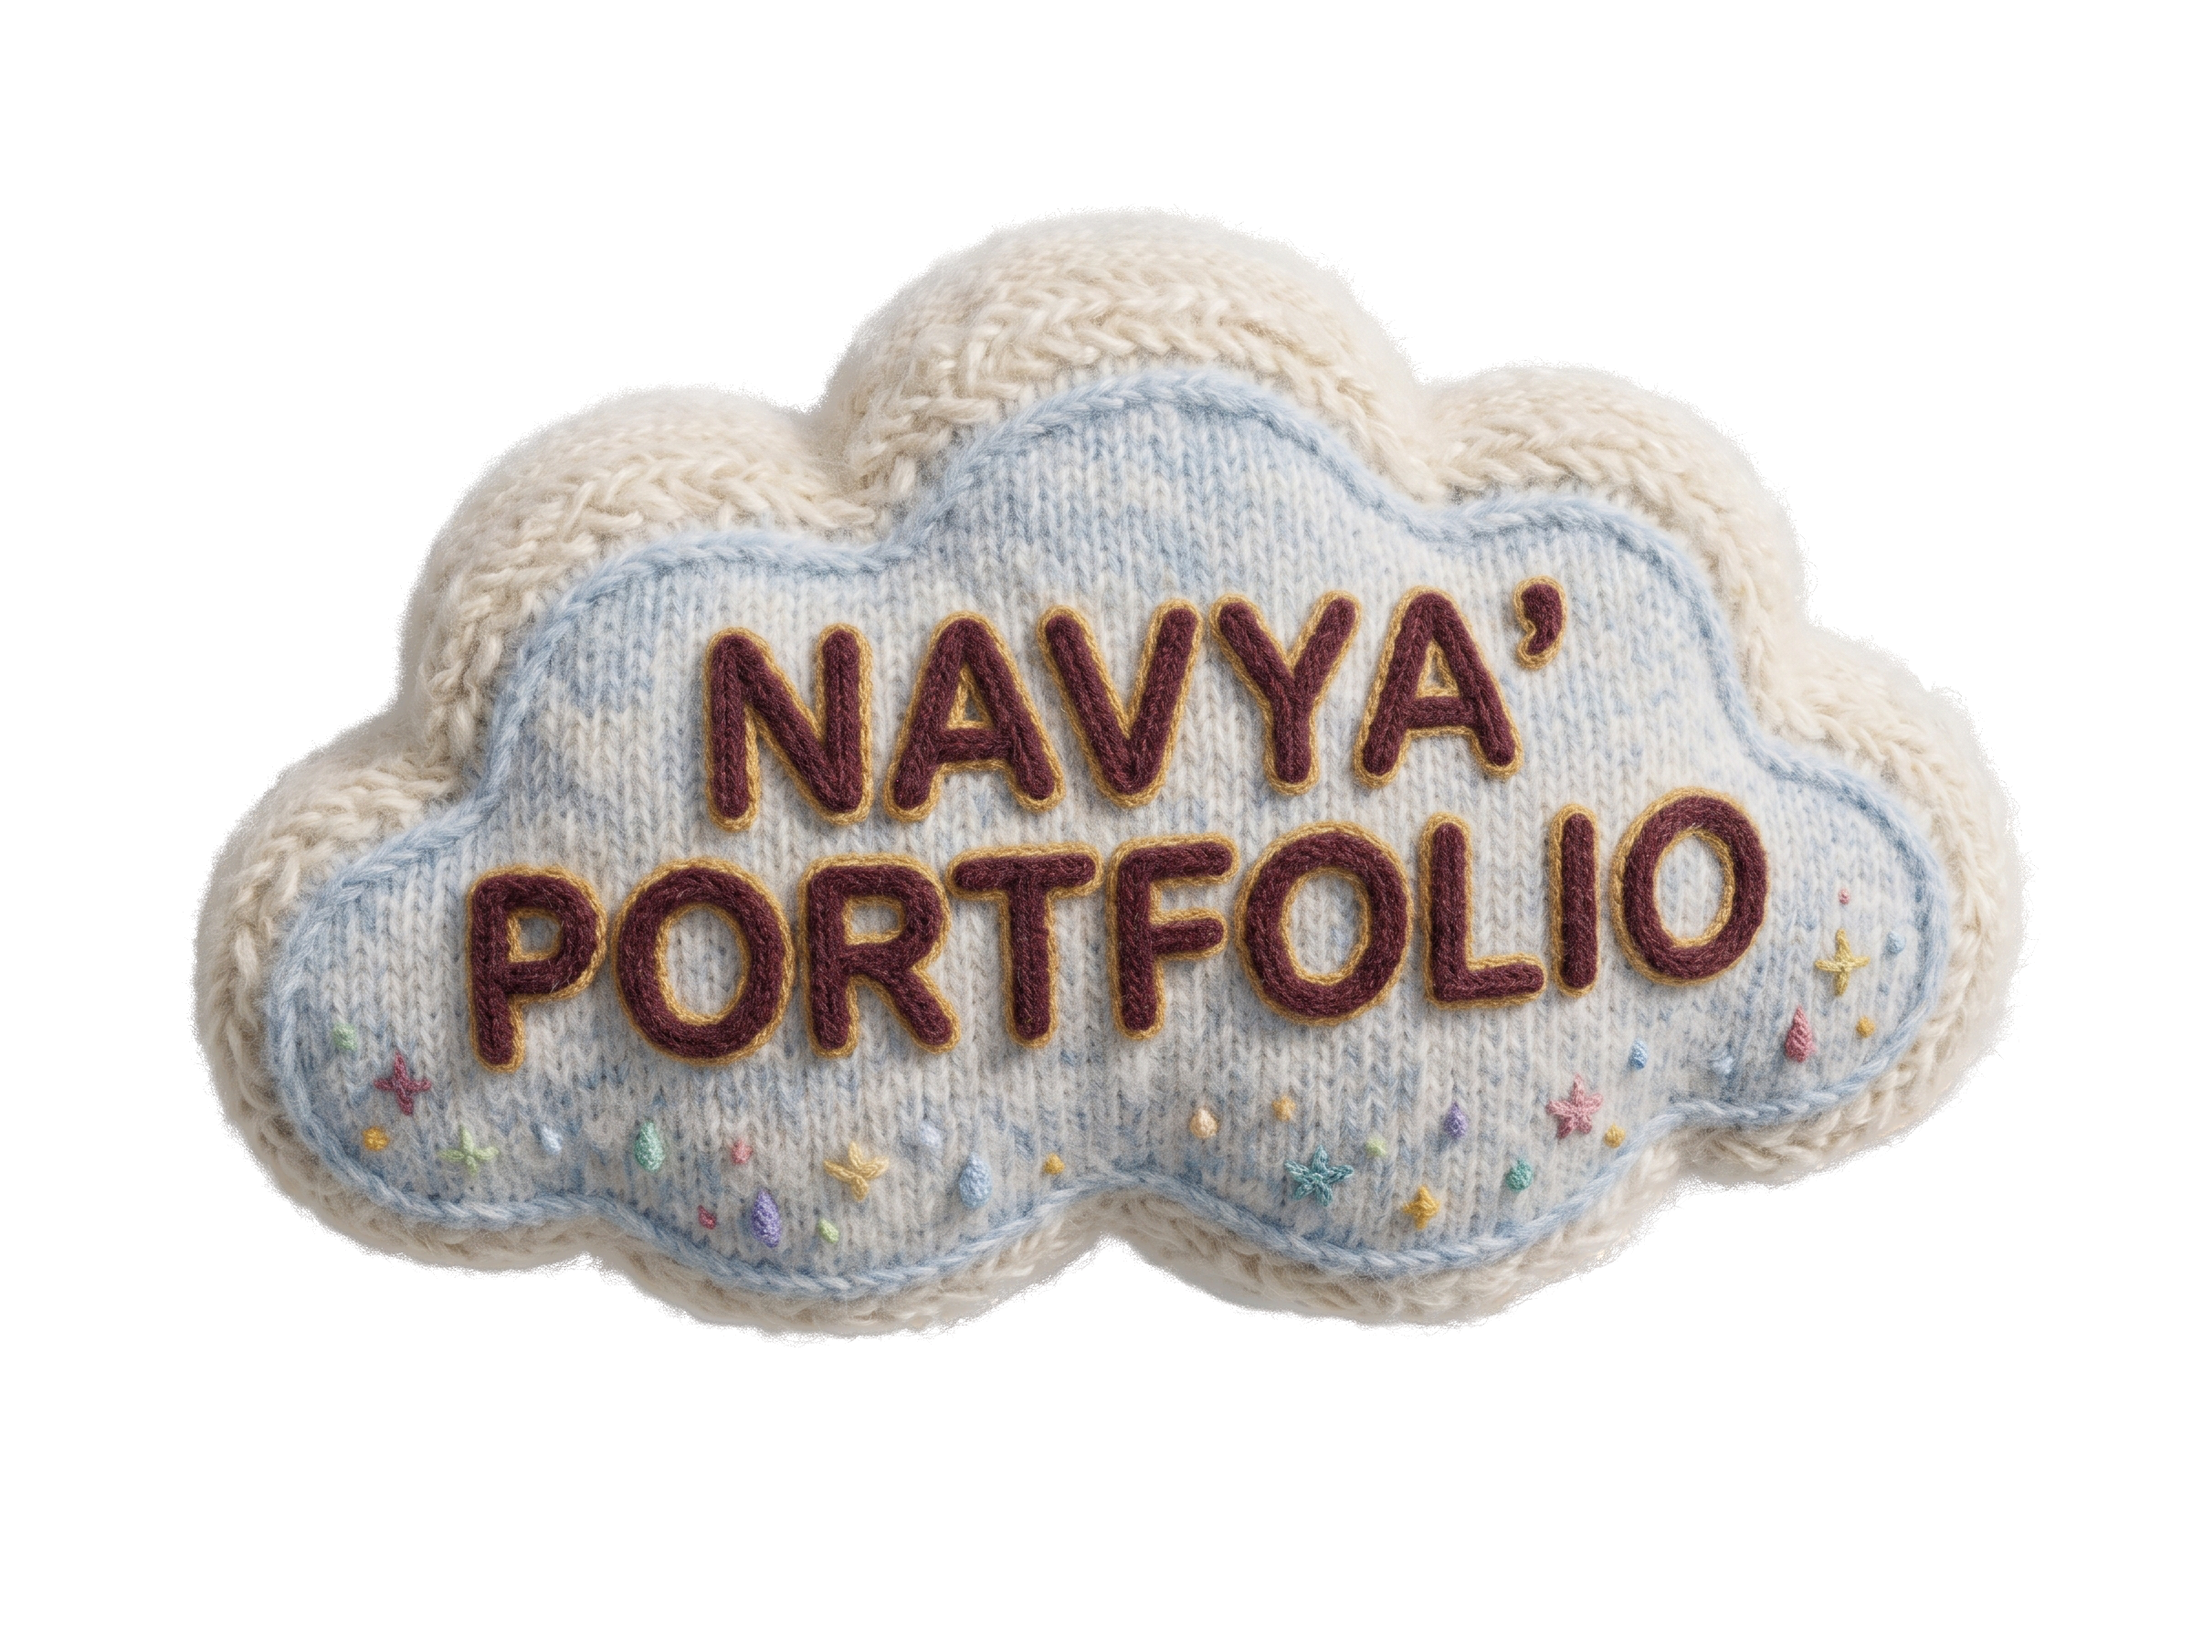
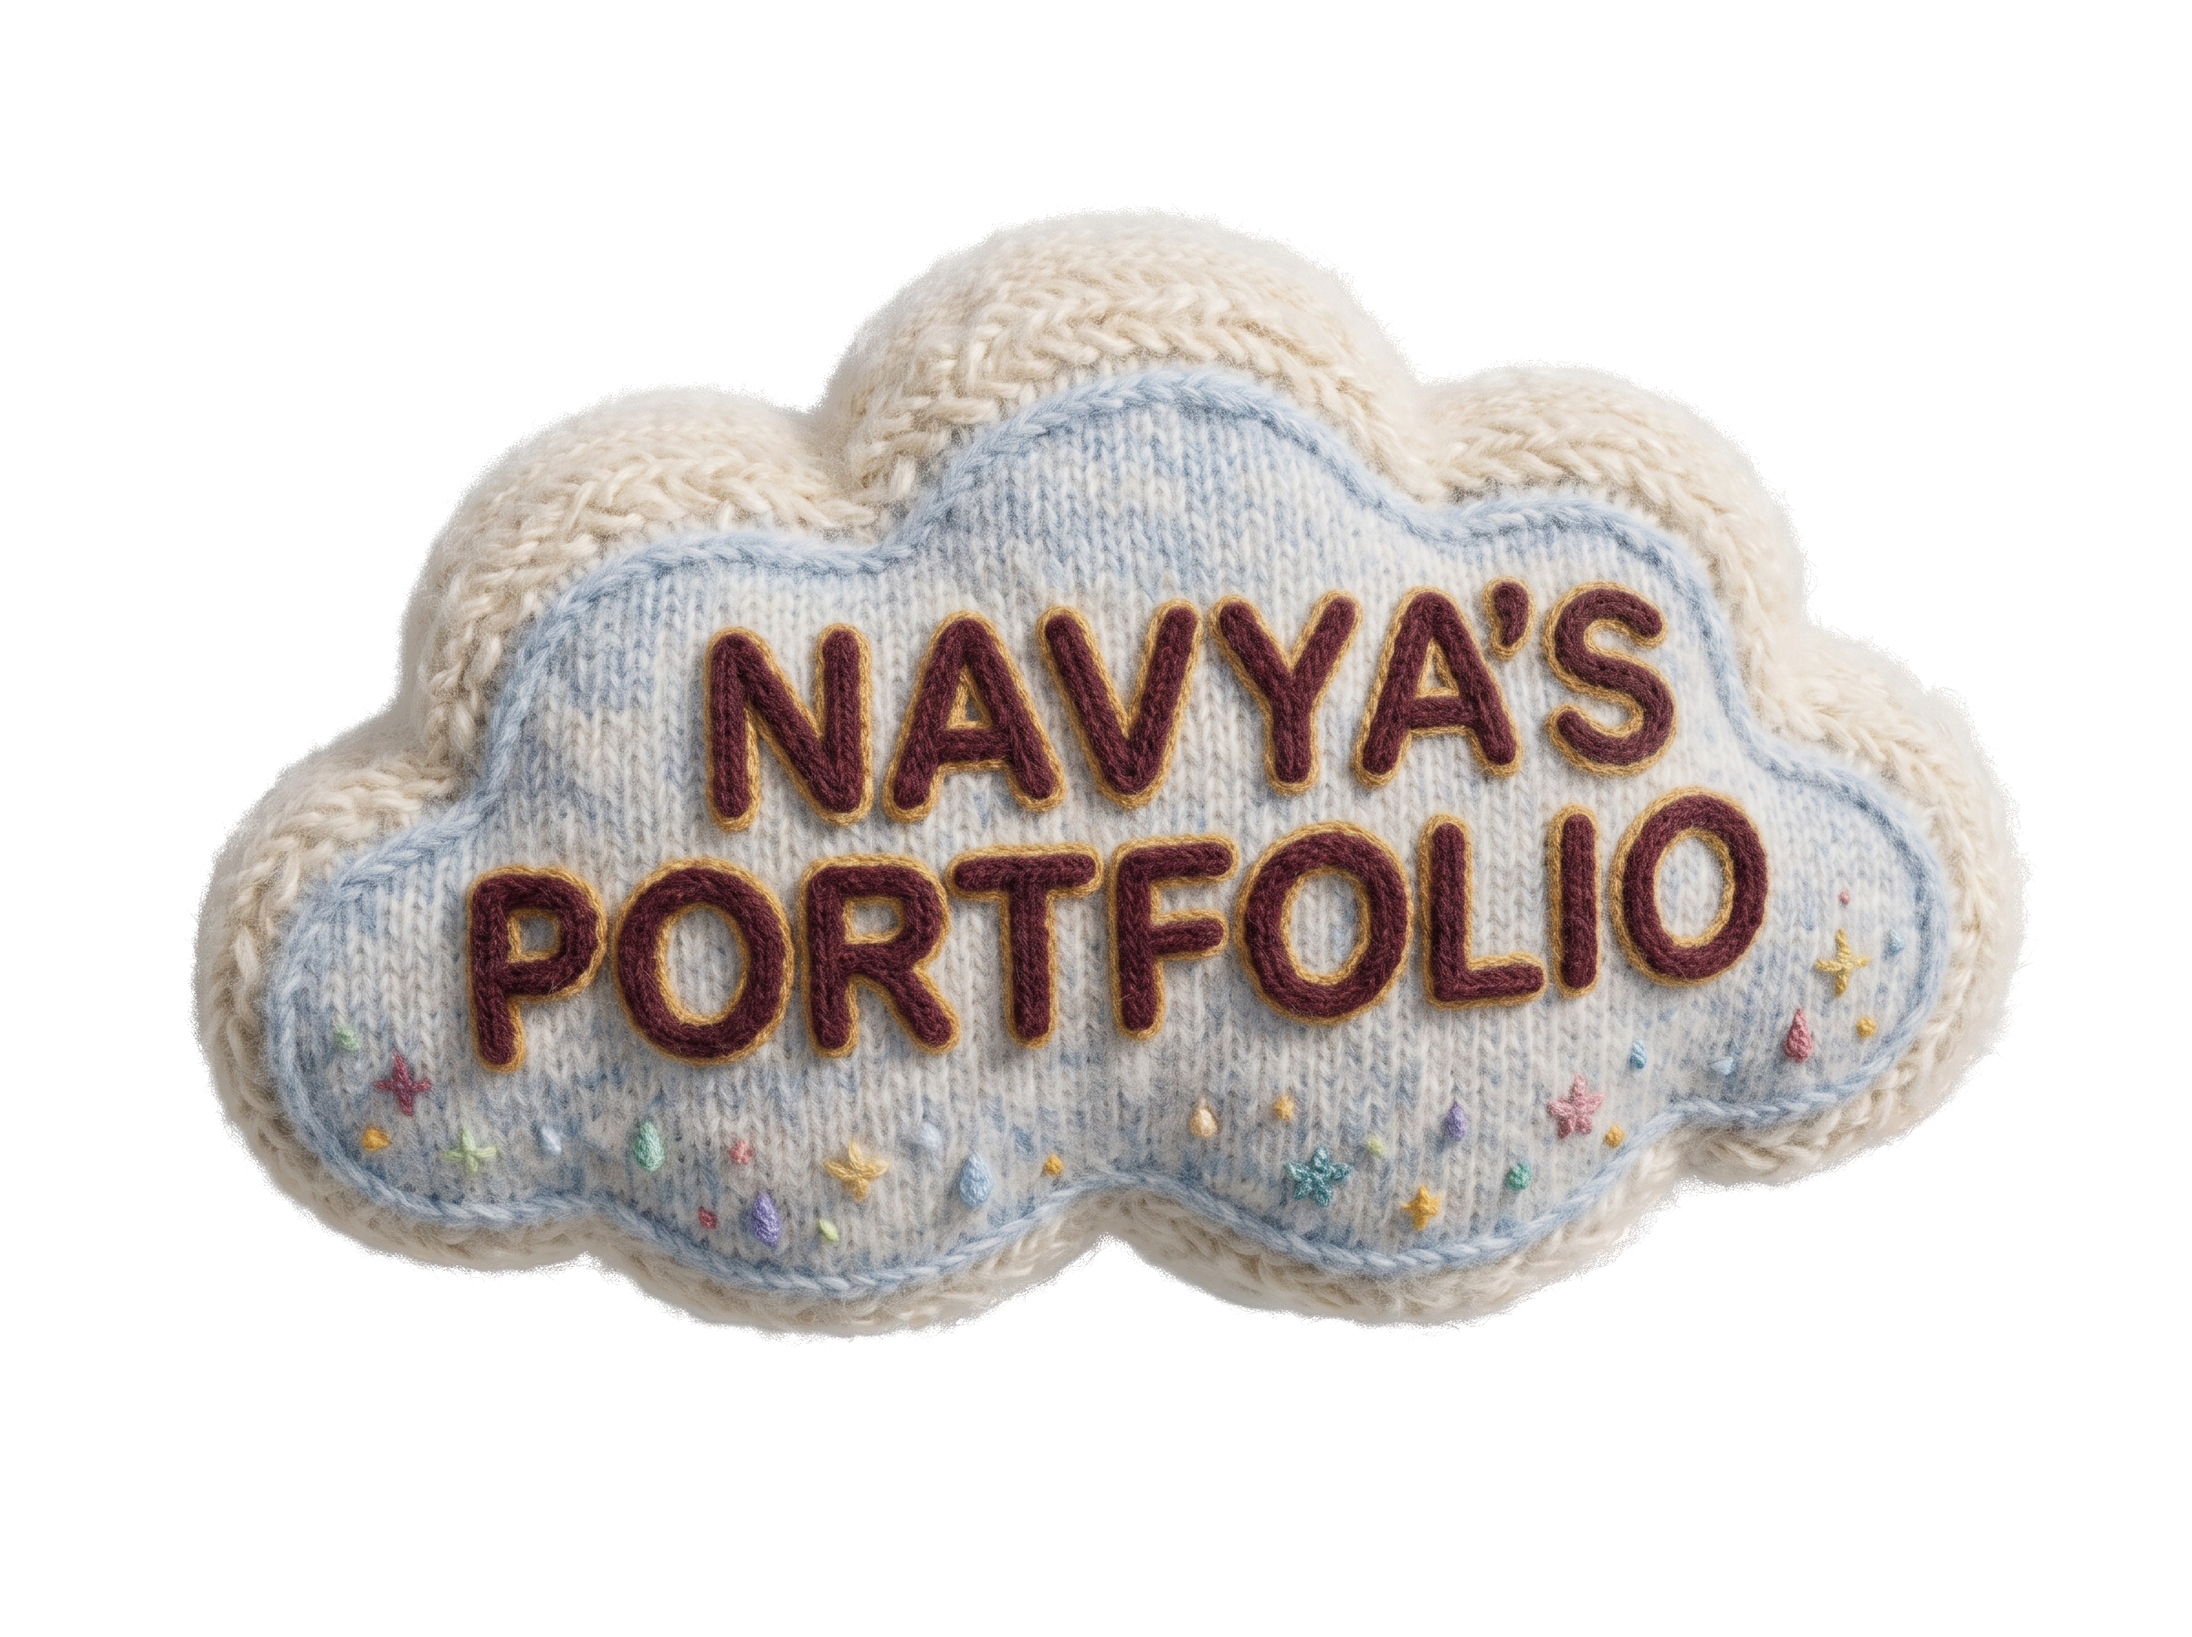
Updated readme

diff --git a/README.md b/README.md
@@ -1,1 +1,7 @@
-3D interactive portfolio website
+# 3D Interactive Portfolio Website
+
+This is my portfolio website. Please view it at navyajain.dev
+
+I used Google's Antigravity and Gemini Argon to make most of it. Images were generated with Gemini Hydrogen and ChatGPT.
+
+I used React (Vite) in TypeScript to make this. Stylling is done with CSS.
